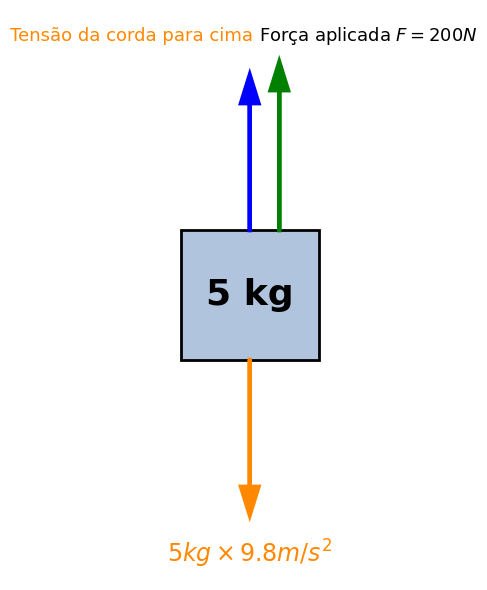
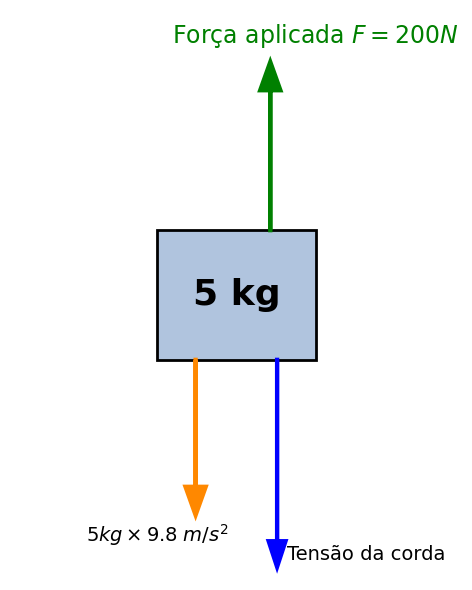
Atualizando o diagrama de corpo livre de 5kg

diff --git a/Atividade_4-54.py b/Atividade_4-54.py
@@ -25,17 +25,17 @@ def diagrama_bloco_5kg():
     ax.add_patch(plt.Rectangle((-0.7, -0.5), 1.4, 1, facecolor="#b0c4de", edgecolor="black", lw=2))
     ax.text(0, 0, "5 kg", fontsize=26, weight='bold', ha='center', va='center', color="black")
 
-    # Peso para baixo (seta/legenda laranja)
-    ax.arrow(0, -0.5, 0, -1.2, head_width=0.18, head_length=0.22, fc="#ff8800", ec="#ff8800", lw=3, length_includes_head=True)
-    ax.text(0, -2.0, r"$5kg\times9.8 m/s^2$", fontsize=17, color="#ff8800", ha='center', va='center')
+    # Peso para baixo
+    ax.arrow(-0.36, -0.5, 0, -1.2, head_width=0.18, head_length=0.22, fc="#ff8800", ec="#ff8800", lw=3, length_includes_head=True)
+    ax.text(-0.7, -1.85, r"$5kg\times9.8\ m/s^2$", fontsize=14, color="black", ha='center', va='center')
 
-    # Tensão da corda para cima (seta azul, texto laranja)
-    ax.arrow(0, 0.5, 0, 1.2, head_width=0.18, head_length=0.22, fc="blue", ec="blue", lw=3, length_includes_head=True)
-    ax.text(-1.2, 2.0, r"Tensão da corda para cima", fontsize=13, color="#ff8800", ha='center', va='center')
+    # Tensão da corda para baixo (seta azul abaixo do bloco)
+    ax.arrow(0.36, -0.5, 0, -1.6, head_width=0.15, head_length=0.20, fc="blue", ec="blue", lw=3, length_includes_head=True)
+    ax.text(0.45, -2.0, "Tensão da corda", fontsize=14, color="black", ha='left', va='center')
 
-    # Força aplicada F para cima (seta/texto verde)
+    # Força aplicada F para cima (seta/texto verde acima e deslocado)
     ax.arrow(0.3, 0.5, 0, 1.3, head_width=0.18, head_length=0.22, fc="green", ec="green", lw=3, length_includes_head=True)
-    ax.text(1.2, 2.0, r"Força aplicada $F=200N$", fontsize=13, color="black", ha='center', va='center')
+    ax.text(0.7, 2.0, r"Força aplicada $F=200N$", fontsize=17, color="green", ha='center', va='center')
 
     ax.set_xlim(-2, 2)
     ax.set_ylim(-2.2, 2.2)
